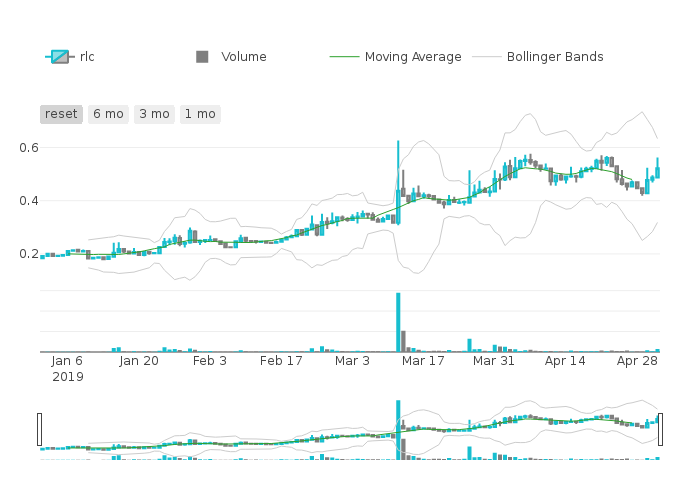
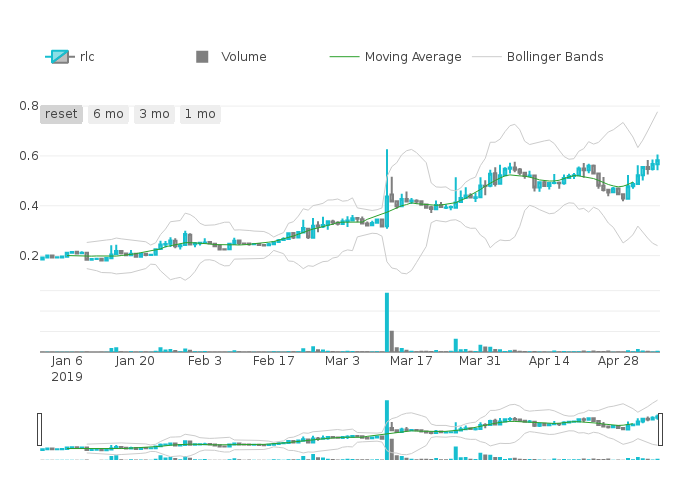
update readme for cloudcoin

diff --git a/CloudCoinAnalysis/README.md b/CloudCoinAnalysis/README.md
@@ -1,8 +1,7 @@
 # CloudCoinAnalysis
 
 
-Analysis of the 3 main cryptocurrencies offering a cloud computing solution:  GOLEM, SONM and IEXEC   
-
+Analysis of the 3 main cryptocurrencies offering a cloud computing solution:  GOLEM, SONM, IEXEC and Bitcoin.    
 
 The application runs on top of iExec platform and generate a market report, it performs exploratory data analysis
 and use machine learning algorithm to predict market prices in future 30 days for the above 3 cryptocurrencies and Bitcoin.
@@ -15,7 +14,8 @@ The iExec network connects cloud resource sellers with cloud resource buyers, en
 This network aims at providing companies with scalable, secure and easy access to the services, datasets and computing resources they need. iExec’s technology relies on Ethereum smart contracts and allows for a virtual cloud infrastructure that provides high-performance computing services on-demand.
 
 
-Source:
+## Data and algorithm source:
+
 The code is forked from:
 
 * https://github.com/jieyima/Cryptocurrency_Investment_Analysis_and_Modeling for the analysis part
@@ -37,15 +37,26 @@ The getcloudcoin.R script generates the csv dataset file, containing the full hi
 
 Then create the zip file and place the zip in the dataset repo.
 ```
- zip dataset/cloudcoin_2019-05-02.zip cloudcoin_2019-05-02.csv
+zip dataset/cloudcoin_2019-05-06.zip cloudcoin_2019-05-06.csv
+ adding: cloudcoin_2019-05-06.csv (deflated 67%)
 ```
+
+## Installing iExec
+
+Follow instructions to install the SDK and set up your wallet  
+https://docs.iex.ec/gettingstarted.html
+and
+https://docs.iex.ec/wallet.html
+
+In this demo, 2 wallet has been generated for both developer and data owner: **developer_wallet** and **data_owner_wallet**.      
+The sdk options **--wallet_file=** will be used to select the good owner for all commands.  
 
 ### Register the dataset on the blockchain
 
 Let's register the dataset, the dataset is not store on the blockchain ethereum, the blockchain is only use to manage the ownership, the access and the monetization.
 
 ```
-iexec dataset init  
+iexec dataset init --wallet-file data_owner_wallet
 ```
 Edit the dataset info in iexec.json file.
 
@@ -56,86 +67,96 @@ The checksum will be use to check the integrity on the file (not implemented).
 ```
 "dataset": {
   "owner": "0x9CdDC59c3782828724f55DD4AB4920d98aA88418",
-  "name": "cloincoin-20190502-dataset",
-  "multiaddr": "https://raw.githubusercontent.com/iExecBlockchainComputing/apps/master/CloudCoinAnalysis/dataset/cloudcoin_2019-05-02.zip",
+  "name": "cloincoin-dataset-20190506",
+  "multiaddr": "https://raw.githubusercontent.com/iExecBlockchainComputing/apps/master/CloudCoinAnalysis/dataset/cloudcoin_2019-05-06.zip",
[1 lines of base64/hex data omitted]
 }
 ```
 Deploy
 
 ```
-iexec dataset deploy
+iexec dataset deploy --wallet-file data_owner_wallet
 ℹ using chain [kovan]
 ? Using wallet data_owner_wallet
 Please enter your password to unlock your wallet [hidden]
-✔ Deployed new dataset at address 0xFCE3F07D96b0f2458Bb82868087AcAE636232B4E
+✔ Deployed new dataset at address 0x62E2750208114e9ABAB091D077553623a54B0d57
+
 ```
 
 ### Publish selling order for the dataset.
 
-As the dataset is now registered and ownership is stored on the blockchain; the owner has to publish order defining the price, the volume and restrictions for the usage of the dataset.
+As the dataset is now registered and the ownership is stored on the blockchain; the owner has to publish order defining the price, the volume and restrictions for the usage of the dataset.
 
 ```
-iexec order init --dataset
+iexec order init --dataset --wallet-file data_owner_wallet
+ℹ using chain [kovan]
+✔ Saved default datasetorder in "iexec.json", you can edit it:
+dataset:            0x62E2750208114e9ABAB091D077553623a54B0d57
+datasetprice:       0
+volume:             1000000
+tag:                0x0000000000000000000000000000000000000000000000000000000000000000
+apprestrict:        0x0000000000000000000000000000000000000000
+workerpoolrestrict: 0x0000000000000000000000000000000000000000
+requesterrestrict:  0x0000000000000000000000000000000000000000
+
 ```
 
-Let's create an order with 10 nRLC cost and 1000 tasks allowed with no extra restriction.
-This dataset has no restricted usage for user, worker pool and app.
+Let's create an order with 10 nRLC cost and a volume of 1000 tasks with no extra restriction, regarding the application or a workerpool or any end-users.
+The dataset created should be extensively used.   
 
 Edit the iexec.json file.
 
 ```
-    "datasetorder": {
-      "dataset": "0xFCE3F07D96b0f2458Bb82868087AcAE636232B4E",
-      "datasetprice": 10,
-      "volume": 1000,
[1 lines of base64/hex data omitted]
-      "apprestrict": "0x0000000000000000000000000000000000000000",
-      "workerpoolrestrict": "0x0000000000000000000000000000000000000000",
-      "requesterrestrict": "0x0000000000000000000000000000000000000000"
-    }
+"datasetorder": {
+  "dataset": "0x62E2750208114e9ABAB091D077553623a54B0d57",
+  "datasetprice": 10,
+  "volume": 1000,
[1 lines of base64/hex data omitted]
+  "apprestrict": "0x0000000000000000000000000000000000000000",
+  "workerpoolrestrict": "0x0000000000000000000000000000000000000000",
+  "requesterrestrict": "0x0000000000000000000000000000000000000000"
+}
 ```
 
 Sign the order
 
 ```
-iexec order sign --dataset
+iexec order sign --dataset --wallet-file data_owner_wallet
 ℹ using chain [kovan]
 ? Using wallet data_owner_wallet
 Please enter your password to unlock your wallet [hidden]
 ✔ datasetorder signed and saved in orders.json, you can share it:
-dataset:            0xFCE3F07D96b0f2458Bb82868087AcAE636232B4E
+dataset:            0x62E2750208114e9ABAB091D077553623a54B0d57
 datasetprice:       10
 volume:             1000
 tag:                0x0000000000000000000000000000000000000000000000000000000000000000
 apprestrict:        0x0000000000000000000000000000000000000000
 workerpoolrestrict: 0x0000000000000000000000000000000000000000
 requesterrestrict:  0x0000000000000000000000000000000000000000
-salt:               0x5f70873d19c66377c8b03c57fa108c94153e9fc20549216b8b74fed2ee030082
-sign:               0x343c2b251e5ec169c94b989e01620aaddfaa2fe8dc7676e915c55b3ebe1454fa5b6dcbf9c4e9aacdd612725a108b6677cd7976cffe76a8c50a3a19c90847c2281b
-
+salt:               0xaecbab832d62f27b8980a8ad16ab3ad1e8c2556e0501c129ce6a7d5d357acca7
+sign:               0x3a8556cfa18d7639a5069b65316b4e209a26e8a36c3c3eac50e46fdbf5fb46da4d2054d4e6e1065258918c8fe2aadbeddd8a74380c60d8caf7de868a5786d0091b
 ```
 and then publish the order
 
 ```
-iexec order publish --dataset
+iexec order publish --dataset --wallet-file data_owner_wallet
 ℹ using chain [kovan]
 ? Using wallet data_owner_wallet
 Please enter your password to unlock your wallet [hidden]
 ? Do you want to publish the following datasetorder?
-dataset:            0xFCE3F07D96b0f2458Bb82868087AcAE636232B4E
+dataset:            0x62E2750208114e9ABAB091D077553623a54B0d57
 datasetprice:       10
 volume:             1000
 tag:                0x0000000000000000000000000000000000000000000000000000000000000000
 apprestrict:        0x0000000000000000000000000000000000000000
 workerpoolrestrict: 0x0000000000000000000000000000000000000000
 requesterrestrict:  0x0000000000000000000000000000000000000000
-salt:               0x5f70873d19c66377c8b03c57fa108c94153e9fc20549216b8b74fed2ee030082
-sign:               0x343c2b251e5ec169c94b989e01620aaddfaa2fe8dc7676e915c55b3ebe1454fa5b6dcbf9c4e9aacdd6
-12725a108b6677cd7976cffe76a8c50a3a19c90847c2281b
+salt:               0xaecbab832d62f27b8980a8ad16ab3ad1e8c2556e0501c129ce6a7d5d357acca7
+sign:               0x3a8556cfa18d7639a5069b65316b4e209a26e8a36c3c3eac50e46fdbf5fb46da4d2054d4e6e1065258
+918c8fe2aadbeddd8a74380c60d8caf7de868a5786d0091b
  Yes
-✔ datasetorder successfully published with orderHash 0x1ad297bfb4aa01d04c8c8919f224b304b043bbe7e5c56616a8a27f7f668595dd
- ```
+✔ datasetorder successfully published with orderHash 0x330d22f55924fa0bf7573ebfcc67b37123c89dbb6b4dd4f8a68eaeca9dad76f6
+```
 
 Check the order status
 
@@ -175,7 +196,7 @@ The registration is similar to the dataset registration.
 First, we will register the application and then publish orders with defining price, volume and restriction.
 
 ```
-iexec app int
+iexec app init
 ```
 
 Edit iexec.json file, and set up the name, the address and the hash of the docker image
@@ -196,11 +217,11 @@ Do not forget to add a "0x" prefix to the hash.
 Deploy the application
 
 ```
-iexec app deploy
+iexec app deploy --wallet-file developer_wallet
 ℹ using chain [kovan]
-? Using wallet developper_wallet
+? Using wallet developer_wallet
 Please enter your password to unlock your wallet [hidden]
-✔ Deployed new app at address 0x814FCFf7aa640F3b59CADF8011F89B55D3De3368
+✔ Deployed new app at address 0xe8dab3a22C6B5077796437a980C6F303f9763239
 ```
 
 ### Publish app order
@@ -225,61 +246,80 @@ Set up price, volume and restriction
 For this app, restriction are not required.
 Sign and publish app order
 
+Price : 1 nRLC
+Volume : 1000
+
 ```
-iexec order sign --app
+iexec order sign --app --wallet-file developer_wallet
 ℹ using chain [kovan]
-? Using wallet developper_wallet
+? Using wallet developer_wallet
 Please enter your password to unlock your wallet [hidden]
 ✔ apporder signed and saved in orders.json, you can share it:
-app:                0x814FCFf7aa640F3b59CADF8011F89B55D3De3368
-appprice:           0
-volume:             1000000
+app:                0xe8dab3a22C6B5077796437a980C6F303f9763239
+appprice:           1
+volume:             1000
 tag:                0x0000000000000000000000000000000000000000000000000000000000000000
 datasetrestrict:    0x0000000000000000000000000000000000000000
 workerpoolrestrict: 0x0000000000000000000000000000000000000000
 requesterrestrict:  0x0000000000000000000000000000000000000000
-salt:               0xe0fe46a67f63ce09a5e0e847f6615111733b25db3dfd3086b216f6410201a14e
-sign:               0xc06660e58e7d3eed37b967986ed060be0f5cb67351cb4d9b2bf52ece2cca46ce4e523bbd83b48f8874c2aef59972ae3a35b319310e5fdfe43cbb72ba0e57050b1b
-```
+salt:               0xbf0d689dd08cac63f33c110d3d183e6d3ad49841c268589da3e1a5b7c639033b
+sign:               0x22a7307c7704d98d9fcac4af0d93628ae9c1e420b2cbeababb0674592c94626963f5fa8e29ed6a5e9d7c8ac707dd5ebc6fbee8e93df1f6a78930f8865977e9c91b
 
 
 ```
-iexec order publish --app
-? Using wallet developper_wallet
-? Using wallet developper_wallet
+
+```
+iexec order publish --app --wallet-file developer_wallet
+ℹ using chain [kovan]
+? Using wallet developer_wallet
 Please enter your password to unlock your wallet [hidden]
 ? Do you want to publish the following apporder?
-app:                0x814FCFf7aa640F3b59CADF8011F89B55D3De3368
-appprice:           0
-volume:             1000000
+app:                0xe8dab3a22C6B5077796437a980C6F303f9763239
+appprice:           1
+volume:             1000
 tag:                0x0000000000000000000000000000000000000000000000000000000000000000
 datasetrestrict:    0x0000000000000000000000000000000000000000
 workerpoolrestrict: 0x0000000000000000000000000000000000000000
 requesterrestrict:  0x0000000000000000000000000000000000000000
-salt:               0xe0fe46a67f63ce09a5e0e847f6615111733b25db3dfd3086b216f6410201a14e
-sign:               0xc06660e58e7d3eed37b967986ed060be0f5cb67351cb4d9b2bf52ece2cca46ce4e523bbd83b48f8874
-c2aef59972ae3a35b319310e5fdfe43cbb72ba0e57050b1b
- Yes
-✔ apporder successfully published with orderHash 0x940b6be33f364ed4fa2d70e09451118d1e50433da5ced4d477e5c0dceb843610
+salt:               0xbf0d689dd08cac63f33c110d3d183e6d3ad49841c268589da3e1a5b7c639033b
+sign:               0x22a7307c7704d98d9fcac4af0d93628ae9c1e420b2cbeababb0674592c94626963f5fa8e29ed6a5e9d
+7c8ac707dd5ebc6fbee8e93df1f6a78930f8865977e9c91b
+Yes
+✔ apporder successfully published with orderHash 0xc869749b88c7f6a58c64aa847c1c8cf723191dd3aa7b335a5f7a16b3d0f3a218
+```
+### Test locally the app with dataset
+```
+rm -rf iexec_in iexec_out
+mkdir iexec_in iexec_out
+cp dataset/cloudcoin_2019-05-06.zip iexec_in/. docker run -v `pwd`/iexec_in:/iexec_in -v `pwd`/iexec_out:/iexec_out -e DATASET_FILENAME="cloudcoin_2019-05-06.zip" iexechub/cloudcoin
 ```
 
-## Buy a crypto coin analysis
+## Buy a crypto coin analysis and get your daily report
 
-From the marketplace, https://v3.market.iex.ec, this is possible to process a cloud coin analysis   
-You only need the dataset and dapp addresses deployed just created, the markeplace is able to find the corresponding orders.
-
-![buy a analysis](images/buy.png)
-
-Information from CoinMarketCap is updated everyday, so dataset can be created daily without changing the existing application, the app has been designed to support updated datasets.
-
-But it is strongly recommended to improve the application and provide improved analysis.
-
-## Your daily report
-
-your report contains a market report with a collection of plots    
+Your report contains a market report with a collection of plots    
 
 ![Candle stick](images/cancdlestick_chart_for_rlc.png)
 ![RoI](images/roi.png)
+
+### Method 1: from the marketplace
+
+https://v3.market.iex.ec.
+
+This is possible to process a cloud coin analysis   
+You only need the dataset and dapp addresses deployed just created, the markeplace is able to find the corresponding orders.
+The corresponding addresses were given by **iexec app deploy** and **iexec dataset deploy** command
+
+![buy a analysis](images/buy.png)
+
+### Method 2 : using requestorder
+
+TBD
+
+## Get updated data
+
+Information from CoinMarketCap is daily updated, so new dataset can be created everyday without changing the existing application, the app has no dataset restriction and is self-adaptable to date changes.
+Similarly, it is recommended to improve the application and add new feature for a better analysis.
+
 
 ## Future work/next step:
 
